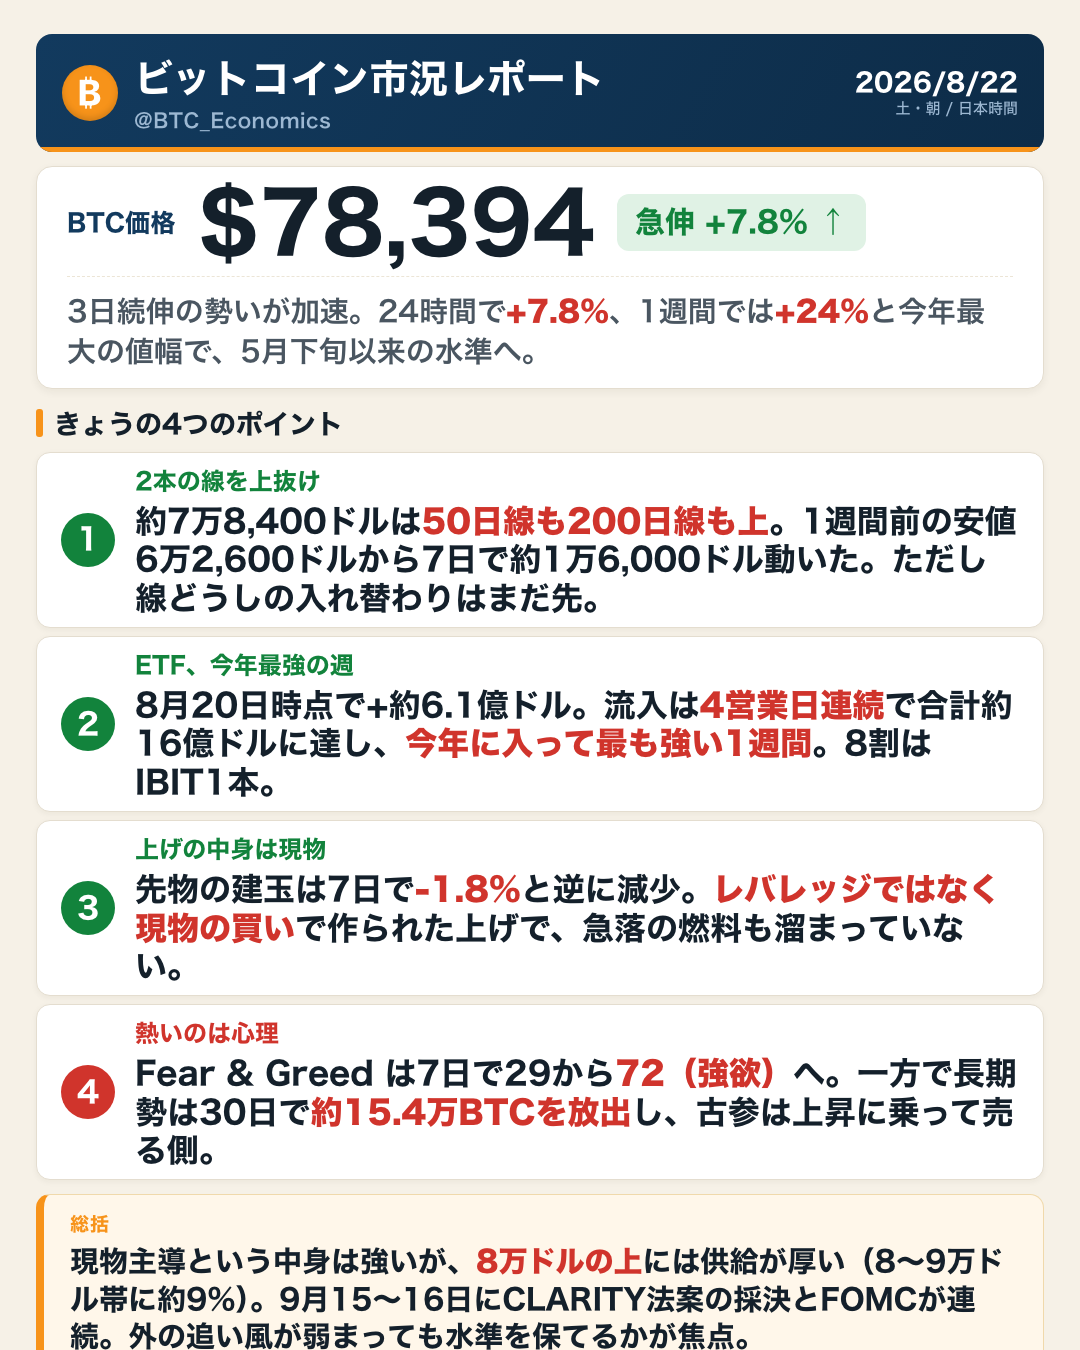
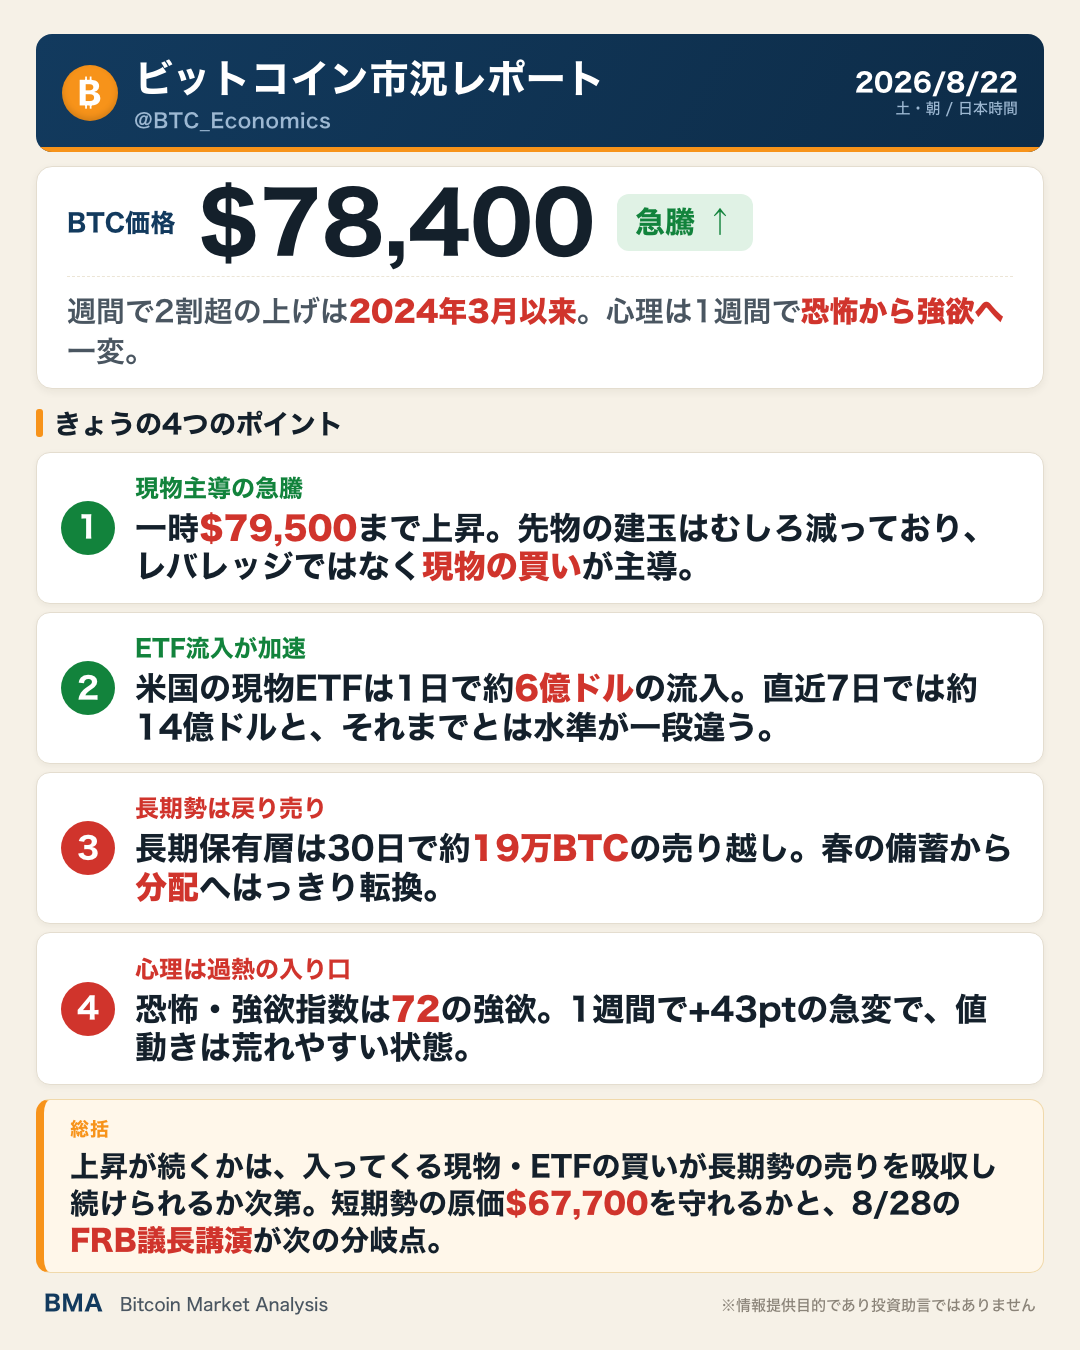
report(2026-08-22): 心理は1週間で「恐怖」から「強欲」へ ― 一時7万9,500ドル、長期勢は戻りを売り続ける

diff --git a/market-reports/2026-08-22/README.md b/market-reports/2026-08-22/README.md
@@ -1,79 +1,66 @@
-# 週間24%高で7万8,400ドル ― 上値の薄い帯を駆け上がり、ETFは年初来最強の週へ
+# 心理は1週間で「恐怖」から「強欲」へ ― 一時7万9,500ドル、長期勢は戻りを売り続ける
 
 **2026年8月22日**
 
-3日続けて上げた相場は、失速するどころか加速しました。8月22日7時5分時点の実勢価格は約7万8,400ドルで、24時間で+7.8%、1週間では+24.5%です。一時7万9,500ドルまで上げ、5月下旬以来の水準に届きました。前日のレポートで「上げの担い手が外側の材料から現物の需給へ移りつつある」と書いた部分は、この24時間でさらにはっきりしています——ETFへの流入は4営業日連続で今年最大の週になり、米国の価格差もプラス側へ振れました。
+ビットコインは8月22日7時5分（日本時間）時点で約7万8,400ドル。前日には一時7万9,500ドルまで上昇しました。本稿は同時刻に取得したデータに基づきます（オンチェーン指標は8月20日時点、ETF資金フローは8月20日分まで、Fear & Greed指数は8月21日分まで）。
 
-（数値は8月22日7時5分時点で取得した各種データに基づきます。価格・取引所プレミアムは同時刻の実勢値、市場心理は8月21日の確定値、オンチェーン指標は8月19日時点、ETF資金フローは8月20日時点、株・金などの終値は8月21日時点です。）
+週間で2割を超える上げ幅は2024年3月以来の大きさです。市場心理はわずか1週間で「恐怖」から「強欲」へ振れ、価格は短期保有者の平均原価を上抜けました。一方でオンチェーンを見ると、この急騰に売り向かっているのは長期保有層です。買いと売りの主役が入れ替わった1週間を整理します。
 
-## 1. 全体像：株ではなく金と並んで上げている
+## 1. 現在の市場の全体像：流動性への期待が続く「現物主導の急騰」
 
-8月21日の他の資産の動きはこうでした（すべて8月21日の終値）。
+* **上げの背景**: 米財務省が8月19日に長期国債の買い戻し枠を倍増させると発表し、市場の流動性が改善するとの見方が広がりました。加えて米国では、大統領が暗号資産の市場構造法案（CLARITY法案）の通過を議会に求め、SECが暗号資産に関する新しい規則案を公表するなど、規制面の追い風も重なっています。
+* **テクニカル**: 価格は50日移動平均（約6万4,600ドル）と200日移動平均（約6万9,000ドル）の両方を上回りました。線の並び自体はまだデッドクロス圏（弱い地合いの名残）ですが、価格の位置は今週で一変しています。
 
-* **金 4,661.60ドル（+3.2%、5営業日で+6.4%）** ― 6月以来の高値圏まで一段高。この日いちばん動いた資産です。
-* **S&P500 7,674.37（+0.4%）／VIX（＝株式市場の恐怖指数）15.13（-5.5%）** ― 株はわずかに反発し、警戒感は後退。ただし5営業日では-1.4%とまだマイナスです。
-* **米10年債利回り 4.74%（+0.9%）／ドル指数 98.84（-0.1%）／WTI原油 86.64ドル（-1.4%）** ― 長期金利は3日続けて戻し、ドルはほぼ横ばい。
-* 全体の地合いは**まちまち**（5営業日で見ればリスクオフ寄り）。その並びのなかで、ビットコインは24時間で+7.8%と突出しています。
+![BTC価格と移動平均](price.png)
+
+* **金と並んで上げ、株とは別の動き**: 8月21日時点で金は1オンス約4,660ドルと5営業日で約6%上昇、S&P500は同じ5営業日で約1.4%の下落でした。株が軟調ななか、ビットコインは金と並んで上げる構図です（30日相関は金+0.64、S&P500+0.16）。1営業日の地合いの目安は「まちまち」で、リスク資産が一斉に買われたわけではなく、この上昇には流動性と規制というビットコイン寄りの材料が効いている形です。
 
 ![BTCと主要マクロ資産の相対推移](macro_relative.png)
 
-ビットコインと株の30日相関は+0.16、金との相関は+0.64。**株とは別々に、金とは同じ方向に動く**という構図は3日続いています。株と一緒のリスク資産としてよりも、金と同じ側で扱われている状態です。背景として市場が意識しているのは、8月19日に発表された米財務省の国債買い入れ拡大と、9月の利上げ観測の後退（利上げ確率は市場の織り込みで3割程度まで低下）があります。ただしこれは値動きの並びであって、原因を特定できるものではありません。
+## 2. データの解説：注目すべき5つのポイント
 
-## 2. 注目すべきポイント
+### ① 一時7万9,500ドル、しかし先物は増えていない
 
-### ① 2本の移動平均を、価格が両方とも上抜けた
+* 8月22日7時5分時点で約7万8,400ドルと、24時間で約8%の上昇。前日には一時7万9,500ドルを付けました。
+* 特徴的なのは先物です。建玉（＝先物の未決済残高）はこの7日でむしろ約2%減少し、資金調達率（＝先物の買い持ちが払う金利）も強気寄りながら平常の範囲にとどまっています。売り建ての清算を巻き込みつつも、レバレッジの積み上がりではなく**現物の買いが主導した上昇**と読めます。
 
-* 8月22日7時5分時点の約7万8,400ドルは、200日移動平均（約6万9,000ドル）も50日移動平均（約6万4,600ドル）も上回っています。**1週間前の安値は6万2,600ドル台**だったので、7日間で約1万6,000ドル動いたことになります。
-* ただし50日線はまだ200日線の下にあり、中期のトレンド判定としてはデッドクロス圏のままです。**価格が線を抜けた段階と、線どうしが入れ替わる段階は別**で、後者にはまだ数週間かかります。
-* 直近の値動きは一本調子ではありません。8月21日に7万9,500ドルまで駆け上がったあと7万7,000ドル近辺まで押し戻され、再び7万8,000ドル台へ戻しています。
-
-![BTC価格の推移（1時間足・直近7日）](intraday.png)
-
-![BTC価格と50日/200日移動平均](price.png)
-
-### ② ETFの流入が4日続き、今年最大の週になった
-
-* ETF資金フローは8月20日時点で+約6.1億ドルと、**5月1日以来およそ3か月半ぶりの大きさ**です。流入は4営業日連続で、合計は約16億ドル（+3.0億、+1.9億、+5.2億、+6.1億ドル）。**今年に入って最も強い1週間**になりました。
-* 内訳はIBITが+約5.0億ドルと、その日の流入の約8割を1本で占めています。FBTC・BITB・ARKBにも小口の流入があり、流出はHODLのみ。
-* 8月中旬まで小幅な流出が続いていた流れが完全に反転した形です。前日のレポートで「単発で終わるか定着するか」と書いた点は、**4日続いた時点で単発ではなくなりました。**
-
-![ETF 日次 純流出入](etf_daily.png)
-
-![ETF ファンド別フロー（最新営業日）](etf_by_fund.png)
-
-### ③ 米国の価格差が、300日で最も高い側へ
-
-* Coinbase Premium（＝米国とそれ以外の価格差）は、8月22日7時5分時点の値でプラス0.03%。**過去300日のなかで上位6%に入る水準**です（この日次値はまだ確定していません）。1週間前はマイナス0.11%で、そこから一気にプラス側へ抜けました。
-* とはいえプラス圏はまだ1日分で、絶対値も0.03%と小さい。**「米国勢が売り手ではなくなった」と言える段階で、「米国勢が主導している」と言うにはもう数日必要**です。
-
-![Coinbase Premium](premium.png)
-
-### ④ 短期勢は含み益、長期勢は放出を続ける
-
-* 8月19日時点で、短期勢の平均取得原価は約6万7,200ドル。8月22日7時5分時点の価格はこれを**約17%上回って**おり、直近で買った層はまとまった含み益を抱えています。8月19日の短期勢SOPR（＝短期勢の損益）は1.011と過去4年で上位1割の利食い水準で、含み益になった層はすでに利益確定に動き始めています。
-* 一方、長期勢の保有量の増減（過去30日）は8月19日時点で-約15.4万BTCと放出が続いています（30日前は+約14万BTC）。長期勢SOPR（＝長期勢の損益）も0.81と1を下回ったまま。**古参は上昇に乗って売る側**で、この構図はここ数日変わっていません。
-* MVRV Z-Score（＝市場全体の含み益）は0.56。1週間前の0.36から上向いたものの、過去4年ではまだ下位3割です。**1週間で24%上げても、バリュエーションは割高の側へは来ていません。** マイナー収入の平年比（Puell Multiple）も0.71と下位2割のままです。
-
-### ⑤ 熱があるのは心理で、先物ではない
-
-* Fear & Greed（＝市場心理の指数）は8月21日で72と「強欲」。1週間前は29（恐怖）だったので**7日で+43ポイント**、過去の分布では上位15%に入ります。振れる速さは警戒に値しますが、「極度の強欲」（76以上）にはまだ届いていません。
-* 資金調達率（＝先物の買い持ちが払う金利）は8時間あたり0.0100%で、30日で最も高い水準まで上がりました。ただし年率換算では約11%で、この銘柄の上限（8時間あたり±0.3%）には遠い水準です。
-* 建玉（＝先物の未決済残高）は約10.6万BTC（金額では約79億ドル）で、**7日変化は-1.8%**。価格が1週間で24%上がったのに、BTC建ての建玉はむしろ減っています。**この上昇はレバレッジの積み増しで作られていない**——買われているのは現物側で、その分だけ急落の燃料も溜まっていません。
+![BTC価格の推移（1時間足）](intraday.png)
 
 ![先物: 資金調達率と建玉](futures.png)
 
+### ② 短期保有者が「含み損」から「含み益」へ
+
+* 短期保有者（保有155日未満）の平均取得原価は8月20日時点で約6万7,700ドル。価格は今週半ばにこの水準を上抜け、その上で推移しています。6月からの底練りで「上値の壁」だった水準を超えたことになります。
+* 短期勢SOPR（＝短期勢の損益）は8月20日時点で約1.02と、利益確定の売りが出ている水準です。利確をこなしながら価格が保たれている点は、需要の強さを示しています。
+
+### ③ 長期保有層は「備蓄」から「分配」へ転換
+
+* 長期保有層（保有155日以上）の過去30日の保有量変化は、8月20日時点で約-19万BTCの売り越し。8月上旬にマイナスへ転じて以降、売りの規模は拡大が続いています。春先の「静かな備蓄」局面から、戻りを売る局面へはっきり転換しました。
+* 長期勢SOPR（＝長期勢の損益）は8月20日時点で約0.84と1を下回っており、動いているコインは平均すると取得原価より安い価格で手放されています。昨年の高値圏で買い、保有期間が155日を超えた層が、この戻りを撤退の機会にしている動きがうかがえます。
+
+### ④ ETFへの資金流入が加速
+
+* 米国の現物ETFは8月20日に約6億ドルの純流入と、直近では最大級の流入となりました。直近7営業日の合計は約14億ドルの流入超で、8月中旬までの細かい流出入とは水準が変わっています。
+* Coinbase Premium（＝米国とそれ以外の価格差）も8月21日時点でプラス圏を保っており、米国勢の買い意欲がこの上昇を支えている構図と整合的です。
+
+![ETF 日次 純流出入](etf_daily.png)
+
+### ⑤ 市場心理は一気に「強欲」圏へ
+
+* Fear & Greed（＝市場心理の指数）は8月21日時点で72の「強欲（Greed）」。1週間前の29（恐怖）から+43ポイントという急激な振れです。
+* 心理の反転は上昇の勢いを裏付ける一方、「極度の強欲」（76以上）まではあと一歩の距離にあり、過熱の入り口でもあります。心理がこれだけ短期間で振れた後は、値動きも荒れやすくなります。
+
 ![Fear & Greed 指数](fear_greed.png)
 
-## 3. 相場転換を見極める分岐点
+## 3. 相場転換を見極めるための「3つの分岐点」
 
-1. **8万ドルの上から、供給の層が急に厚くなる。** 取得原価の分布（8月19日時点のスナップショット）を見ると、価格がいま抜けてきた7万〜8万ドルの帯にある供給は全体の約6%と薄い一方、**8万〜9万ドルには約9%、9万〜10万ドルには約2割**が控えています。**薄い帯を速く駆け上がった分、次の帯では抵抗が変わる**可能性があります。なお、これは取得原価の分布であって保有者の数でも取引所の在庫でもなく、原価も日次終値による近似です。「誰が買ったか」までは読み取れません。
-   ![取得原価の分布](urpd.png)
-2. **9月15〜16日に日程が二つ重なる。** 上院はCLARITY法案（暗号資産の市場ルールを定める法案）の採決を9月15日に予定しており、翌16日にはFOMCがあります。**規制の枠組みと金利の方向が、48時間のうちに続けて出る**構図です。法案が通るかどうかをここで予想はしませんが、この2日を挟んで値動きが荒くなりやすい点は意識しておく価値があります。
-3. **外側の追い風が剥がれても、水準を保てるか。** 上げの起点となった国債買い入れ拡大（実施は9月9日から）のあと、10年債利回りは3日続けて戻しています。**金利の追い風が弱まっても7万ドル台後半にとどまるなら、上げの主役は完全に現物の需給へ移ったと言えます。** 逆にETFの流入が止まり、米国の価格差がマイナスへ戻るようなら、心理だけが強欲圏に取り残された形になります。
+1. **約6万7,700ドル（短期勢の原価）を押し目で守れるか**: 上抜けた水準が今度は下支えとして機能するかが最初の試金石です。押しが入ったときにここを維持できれば、上昇の土台は固まります。割り込めば、短期勢が再び含み損に戻り、6月以来のレンジへの逆戻りが視野に入ります。
+2. **ETFの流入と長期勢の売りの綱引き**: 30日で約19万BTCという長期勢の分配を、現物・ETFの買いが吸収し続けられるかが焦点です。流入が単発で細れば、この売りが上値の重しとして表に出てきます。
+3. **来週のジャクソンホール会議（8月27〜29日）**: 28日にはFRB議長の講演が予定されています。今回の上昇は財務省の国債買い戻し拡大という「流動性」の期待が起点だっただけに、金融政策側の発言次第で巻き戻しも起こりえます。米10年債利回りが8月21日時点で4.74%へ上昇している点も、リスク資産全体の重しになりうる状況です。
 
 ## 総括
 
-8月19日に始まった上昇は、1週間で24%という今年最大の値幅になりました。8月22日7時5分時点で約7万8,400ドル。ETFへの流入は4営業日続いて今年最強の週となり、米国の価格差もプラス側へ振れています。先物の建玉はむしろ減っており、この上げがレバレッジではなく現物の買いで作られている点は、これまでの急騰局面との違いです。一方で市場心理は7日で恐怖から強欲へ振れ、長期勢は放出を続けています。バリュエーションにはまだ余裕がありますが、価格は8万ドルの上に控える厚い供給層の手前に来ました。外側の追い風が弱まる局面で現物の買いが続くかどうかが、次の数日の焦点になると考えられます。
+現物とETFの買いが主導し、短期保有者の原価を上抜けた今週の急騰は、6月からの底練り局面の構図を塗り替えました。市場心理も恐怖から強欲へ一気に反転しています。ただしその裏で、長期保有層は戻り売りの規模を拡大しており、上昇の持続は「入ってくる現物買いが、出ていく長期勢の売りを上回り続けられるか」に懸かっています。心理の振れの速さは過熱の初期症状でもあり、来週のジャクソンホール会議を前に、上値を追う勢いと利益確定の売りが交錯しやすい局面です。
 
 ---
 

diff --git a/market-reports/README.md b/market-reports/README.md
@@ -4,7 +4,7 @@
 
 ## 2026年8月
 
-- **8月22日** — [週間24%高で7万8,400ドル ― 上値の薄い帯を駆け上がり、ETFは年初来最強の週へ](2026-08-22/)
+- **8月22日** — [心理は1週間で「恐怖」から「強欲」へ ― 一時7万9,500ドル、長期勢は戻りを売り続ける](2026-08-22/)
 - **8月21日** — [現物の買いが追いついてきた ― 7万2,700ドル、米国プレミアムは3か月半ぶりにプラスへ](2026-08-21/)
 - **8月20日** — [国債買い入れの倍増で6万9,700ドル ― 24時間で8%高、200日線を9か月半ぶりに上回る](2026-08-20/)
 - **8月19日** — [ETFに3か月半ぶりの大口流入 ― 6万4,500ドル、株が3日続落するなかで週高値をうかがう](2026-08-19/)
